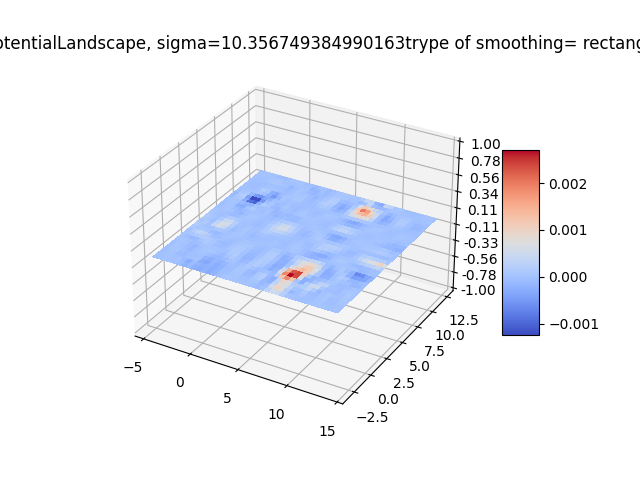
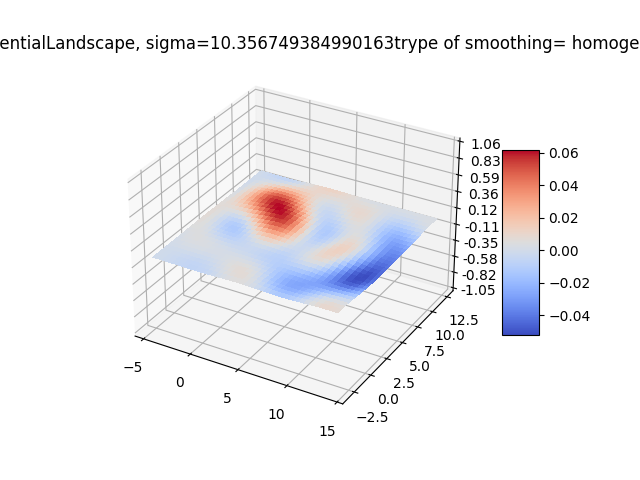
добавляю на картинку с прямоугольниками - середины многоугольников вороного, чьи прямоугольники слишком большие
и убрае мусор всякий

diff --git a/main.py b/main.py
@@ -24,6 +24,7 @@ from VadimsCodeModified import get_rectangles_inside_voronoi,add_to_plot_voronoi
 from potential_old_version import print_graph_matrix
 
 from statistics import median
+from create_text_files import print_potential_information
 
 
 
@@ -52,6 +53,13 @@ def density(Samples,x,y,sigma):
     for i in Samples:
         d+=gaussian_kernel(x,y,i[0],i[1],sigma)
     return d/len(Samples)
+
+def get_density_vector(Samples,sigma):
+    DensVector=[]
+    for point in Samples:
+        DensVector.append(density(Samples,point[0],point[1],sigma))
+    return DensVector
+
 
 #процудура нахождения плотности в точке (x,y), рассчитаная как сумма квадратов обратных расстояний до  точек Samples
 def evkl_density(Samples,x,y):
@@ -124,7 +132,7 @@ def sample_area(Samples):
     return x0,y0,x1,y1
 
 #создадим вектор плотностей  в samples
-def create_small_density_vector(Samples,sigma):
+def create_density_vector(Samples,sigma):
     DensVector=[]
     for i in Samples:
         DensVector.append(density(Samples,i[0],i[1],sigma))
@@ -134,7 +142,7 @@ def create_small_density_vector(Samples,sigma):
 def potential_calculation_on_graph(Samples,P,sigma):
     '''P --- psevdo inversre matrix for Laplacian'''
     #вычислим список плотностей в точках графа
-    DensVector=create_small_density_vector(Samples,sigma)
+    DensVector=create_density_vector(Samples,sigma)
     PotentialVector=[]
     # вычислим потенциал как P*Dense
     for k in range(len(Samples)):
@@ -297,6 +305,18 @@ def plot_Delaunay(Samples):
     plt.plot(s[:, 0], s[:, 1], 'o')
     plt.show()
 
+# создадим список длин и ширин прямоугольников
+def create_rectsizes(Samples,rectangles):
+    s=Samples
+    RectSizes = np.ones((len(s), 2))
+    for i in range(len(s)):
+        if rectangles[i] != 1:
+            RectSizes[i] = [rectangles[i].width, rectangles[i].height]
+        else:
+            RectSizes[i] = [1, 1]
+    return RectSizes
+    #print('rectsize', RectSizes)
+
 def main():
     #s=np.loadtxt('UMAP_pr.txt')#читаю данные из файла как матрицу
     s = np.loadtxt('Samples2')  # читаю данные из файла как матрицу
@@ -307,7 +327,7 @@ def main():
 
     df=s
     #Create graph from data. knn - Number of nearest neighbors (including self)
-    G = gt.Graph(df, use_pygsp=True, knn=4)#df - это матрица KxM в которой хранятся первичные вектора.
+    G = gt.Graph(df, use_pygsp=True, knn=5)#df - это матрица KxM в которой хранятся первичные вектора.
     G.A
     #вычислим нормализованный лапласиан графа и псевдооброатную к нему
     G.compute_laplacian('normalized')
@@ -325,9 +345,9 @@ def main():
     P=PsevdoInverseL_K#псевдообратная матрица к лапласиану графа
     # #плотность
     x0,y0,x1,y1=sample_area(s)
-    h=0.25
-    N=1
-    D=1
+    h=0.25 #шаг для построения картинок
+    N=1 #параметр для сглаживания
+    D=1 #параметр диффузии
 
     #mind, maxd = min_max_dist(s)
     #sigma_arr=np.array([0.3,0.7,1,2])
@@ -357,8 +377,6 @@ def main():
     #print('lenrect', len(rectangles))
 
     add_to_plot_rectangles(axs, rectangles)
-    # plt.show()
-    #plt.savefig('voronoi_rect.png', format='png')
 
     rectangles1 = get_rectangles_in_bounded_areas(s)  # прямоугольники вписанные только в ограниченные области диаграммы
     print('rect1', rectangles1)
@@ -372,14 +390,7 @@ def main():
     plt.savefig('voronoi_rect.png', format='png')
     print('added points',added_points)
 
-
-    #создадим список длин и ширин прямоугольников
-    RectSizes = np.ones((len(s), 2))
-    for i in range(len(s)):
-        if rectangles[i] != 1:
-            RectSizes[i] = [rectangles[i].width, rectangles[i].height]
-        else:
-            RectSizes[i] = [1, 1]
+    RectSizes=create_rectsizes(s,rectangles)
     print('rectsize', RectSizes)
 
     # вычисление потенциала с помошью Лапласиана графа в точках samples и сглаживание
@@ -388,12 +399,13 @@ def main():
                                   RectSizes,
                                   'Smooth PotentialLandscape, sigma=' + str(
                                   sigma) + 'trype of smoothing= homogenous')
-    draw_smooth_functiong_general(x0, x1, h, y0, y1, h, s, PotentialVector, N, 'rectangles', RectSizes,
-                                  'Smooth PotentialLandscape, sigma=' + str(
-                                   sigma) + 'trype of smoothing= rectangles')
+    #draw_smooth_functiong_general(x0, x1, h, y0, y1, h, s, PotentialVector, N, 'rectangles', RectSizes,
+     #                             'Smooth PotentialLandscape, sigma=' + str(
+      #                             sigma) + 'trype of smoothing= rectangles')
 
-
-
+    #азпишем информацию в файл
+    DensVector=get_density_vector(s, sigma)
+    print_potential_information(s,PotentialVector,DensVector,sigma)
 
 if __name__ == '__main__':
     main()
